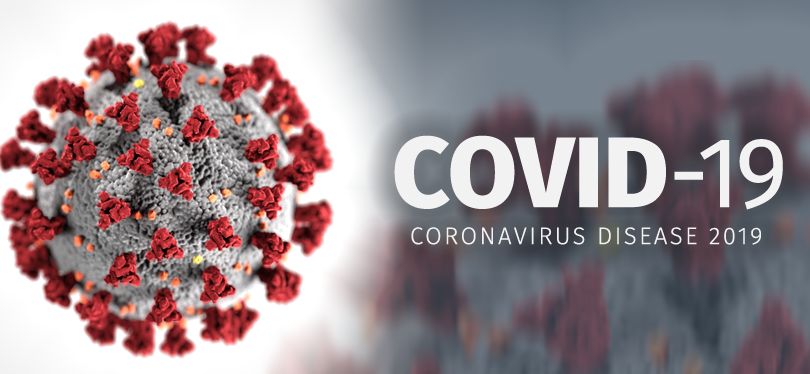
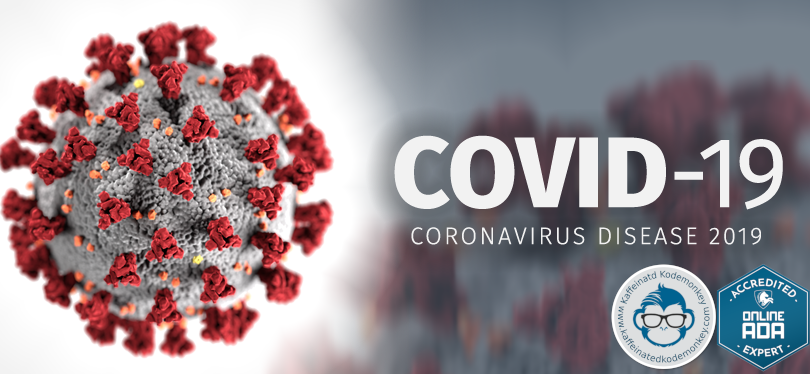
update covid image

Changed region(s): [[0.7407, 0.7059, 1.0, 1.0]]

diff --git a/_site/COVID-19.html b/_site/COVID-19.html
@@ -245,7 +245,7 @@
           <div class="row">
             <div class="col">
               
-                <img src="http://localhost:4000/assets/images/covid-19-image.png" class="img-fluid img-thumbnail rounded" style="width: 100%; height: auto;" alt="COVID-19">
+                <img src="http://localhost:4000/assets/images/covid-19-image.jpg" class="img-fluid img-thumbnail rounded" style="width: auto%; height: auto;" alt="COVID-19">
               
             </div>
           </div>

diff --git a/_site/index.html b/_site/index.html
@@ -119,7 +119,7 @@
     <div class="row shadow-sm p-3 mb-5 bg-white">
       
 <div class="col d-none d-lg-block mt-3">
-  <img src="http://localhost:4000/assets/images/responsive-design-ss-1.jpg" class="ing-fluid img-thumbnail rounded" alt="Built with Accessibiltiy in mind">
+  <img src="http://localhost:4000/assets/images/covid-19-image.png" class="ing-fluid img-thumbnail rounded" alt="Built with Accessibiltiy in mind">
 </div>
 <div class="col mt-5 pt-5">
   <div class="row">

diff --git a/_includes/header.html b/_includes/header.html
@@ -1,6 +1,6 @@
 
 <div class="col d-none d-lg-block mt-3">
-  <img src="{{site.url}}/assets/images/responsive-design-ss-1.jpg" class="ing-fluid img-thumbnail rounded" alt="Built with Accessibiltiy in mind">
+  <img src="{{site.url}}/assets/images/covid-19-image.png" class="ing-fluid img-thumbnail rounded" alt="Built with Accessibiltiy in mind">
 </div>
 <div class="col mt-5 pt-5">
   <div class="row">

diff --git a/COVID-19.html b/COVID-19.html
@@ -1,7 +1,7 @@
 ---
 layout: template
-mine-image: covid-19-image.png
-img-size: 100
+mine-image: covid-19-image.jpg
+img-size: auto
 title: COVID-19
 category: Website Services
 subtitle:
